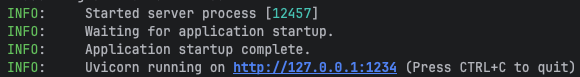
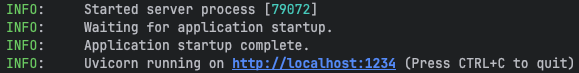
[DOC] Update README to reflect changes in model serving command and output image

diff --git a/README.md b/README.md
@@ -161,11 +161,11 @@ Pyenv is used with MLflow to manage different Python versions and packages in is
 - Finally, start your MLflow API by running the following command, replacing the `<RUN_ID>` for your own:
   ```bash
   conda activate mlflow_env
-  mlflow models serve -m <RUN_ID> -h 127.0.0.1 -p 1234 --timeout 0
+  mlflow models serve -m <RUN_ID> -h localhost -p 1234 --timeout 0
   ```
   - Let it run, it should look like this:
 
-  ![Model Serve Output](static/model_serve_output_conda.png)
+  ![Model Serve Output](static/model_serve_output_uv.png)
 
 #### 5.2 **Option 2:** Build and Run a containerized API
 Mlflow also allows you to build a dockerized API based on a model stored in one of your runs.
@@ -212,7 +212,7 @@ Mlflow also allows you to build a dockerized API based on a model stored in one 
 Let's now test the served model (API) we just built.
 - In a different terminal, send a request to test the served model:
     ```bash
-    curl -X POST -H "Content-Type: application/json" --data '{"dataframe_split": {"data": [[7.4,0.7,0,1.9,0.076,11,34,0.9978,3.51,0.56,9.4]], "columns": ["fixed acidity","volatile acidity","citric acid","residual sugar","chlorides","free sulfur dioxide","total sulfur dioxide","density","pH","sulphates","alcohol"]}}' http://127.0.0.1:1234/invocations
+    curl -X POST -H "Content-Type: application/json" --data '{"dataframe_split": {"data": [[7.4,0.7,0,1.9,0.076,11,34,0.9978,3.51,0.56,9.4]], "columns": ["fixed acidity","volatile acidity","citric acid","residual sugar","chlorides","free sulfur dioxide","total sulfur dioxide","density","pH","sulphates","alcohol"]}}' http://localhost:1234/invocations
     ```
 - The output should be something like the following:
     ```bash
